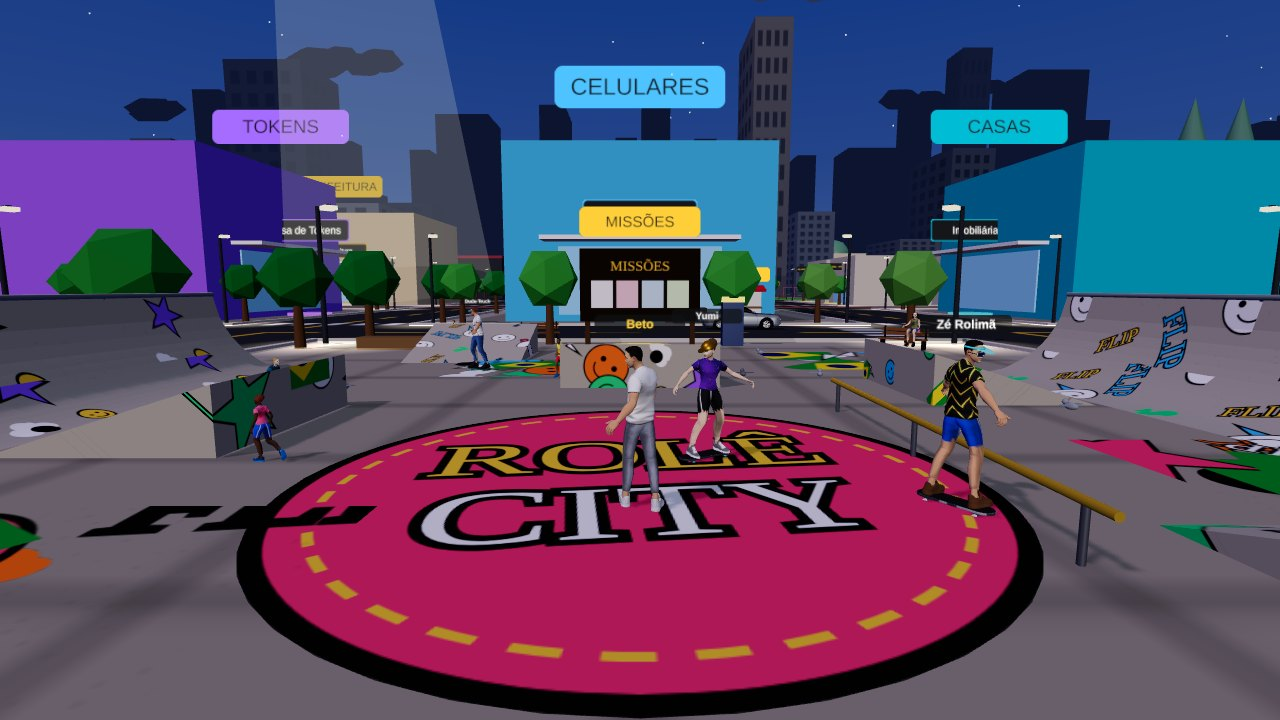
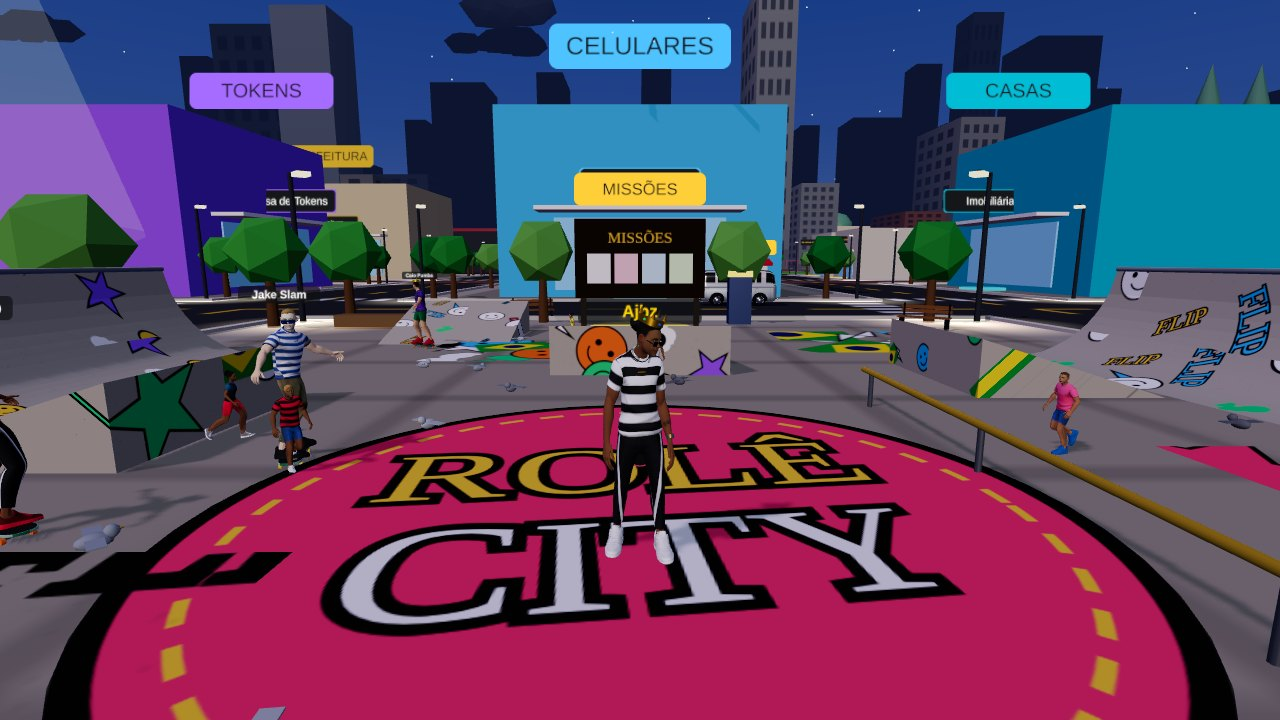
Imagens de divulgação com o personagem Ajbz
Claude-Session: https://claude.ai/code/session_01B2XRbv4bPWWYad5ULWxoph

diff --git a/apresentacao.html b/apresentacao.html
@@ -25,7 +25,7 @@ a{color:inherit}
   background:linear-gradient(180deg,#1a1036 0%,#4a1a55 40%,#c2335f 70%,#ff8a2a 92%)}
 .hero:before{content:"";position:absolute;left:50%;bottom:-6%;width:min(90vw,720px);aspect-ratio:1;transform:translateX(-50%);border-radius:50%;
   background:radial-gradient(circle,#ffe27a 0%,#ffb03a 45%,#ff6a3a 68%,transparent 70%);filter:blur(2px);opacity:.9}
-.hero .city{position:absolute;left:0;right:0;bottom:0;height:34%;background:linear-gradient(#0000,#120d1f 92%),url("marca/print-noite.jpg") center/cover;opacity:.35;mask:linear-gradient(transparent,#000 40%)}
+.hero .city{position:absolute;left:0;right:0;bottom:0;height:34%;background:linear-gradient(#0000,#120d1f 92%),url("marca/print-noite.jpg?v=2") center/cover;opacity:.35;mask:linear-gradient(transparent,#000 40%)}
 .hero .in{position:relative;padding:40px 0 70px}
 .hero img.logo{width:min(440px,82vw);filter:drop-shadow(0 14px 0 rgba(0,0,0,.35)) drop-shadow(0 0 30px rgba(255,210,58,.4));animation:float 4s ease-in-out infinite}
 @keyframes float{50%{transform:translateY(-10px)}}
@@ -91,10 +91,11 @@ footer a{color:var(--mut);margin:0 8px}
     <h2>OLHA O ROLÊ</h2>
     <p class="sub">Imagens do jogo rodando no navegador.</p>
     <div class="gal">
-      <img src="marca/print-praca.jpg" alt="Praça de skate do Rolê City" loading="lazy">
-      <img src="marca/print-morro.jpg" alt="Morro com bandeira do Brasil" loading="lazy">
-      <img src="marca/print-rua.jpg" alt="Rua com arena de luta e banco" loading="lazy">
-      <img src="marca/print-noite.jpg" alt="Praça à noite" loading="lazy">
+      <img src="marca/print-perto.jpg?v=2" alt="Personagem Ajbz na praça" loading="lazy">
+      <img src="marca/print-praca.jpg?v=2" alt="Praça de skate do Rolê City" loading="lazy">
+      <img src="marca/print-morro.jpg?v=2" alt="Morro com bandeira do Brasil" loading="lazy">
+      <img src="marca/print-rua.jpg?v=2" alt="Rua com arena de luta e banco" loading="lazy">
+      <img src="marca/print-noite.jpg?v=2" alt="Praça à noite" loading="lazy">
     </div>
   </div>
 </section>

diff --git a/divulgacao/instagram.md b/divulgacao/instagram.md
@@ -7,7 +7,7 @@ Links para usar:
 Imagens prontas na pasta `marca/`:
 - `logo.png`: logomarca com fundo transparente
 - `og.jpg`: capa 1200×630
-- `print-praca.jpg`, `print-morro.jpg`, `print-rua.jpg`, `print-noite.jpg`: imagens do jogo
+- `print-perto.jpg`, `print-praca.jpg`, `print-morro.jpg`, `print-rua.jpg`, `print-noite.jpg`: imagens do jogo com o personagem Ajbz
 - `icons/icon-512.png`: foto de perfil
 
 ---
